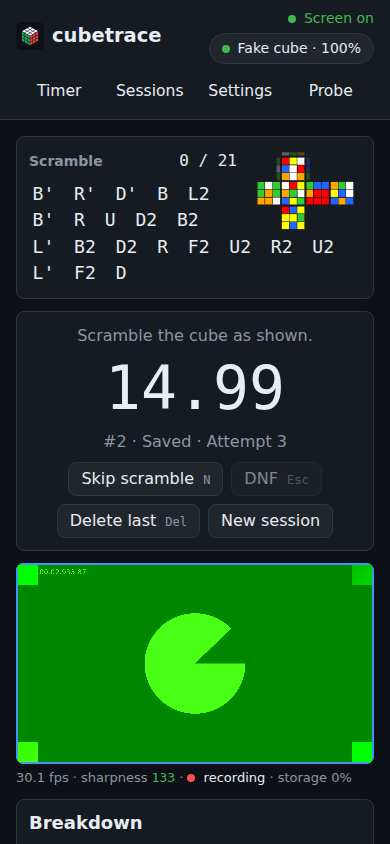
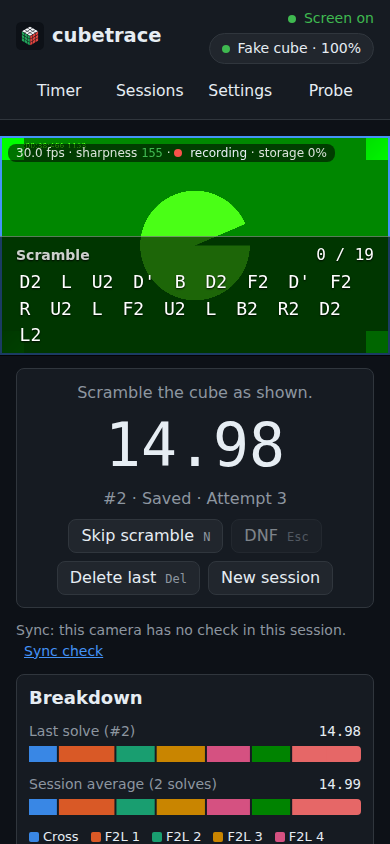
docs: T2.13 on the board, its section in the plan, its manual item, the changelog under 0.2.0, the README's phone layout and screenshot, the phone layout in TOOLCHAIN
PLAN.md: the board row (after T2.11; T2.12 is not on main yet) and a T2.13 section modeled on
T2.7's, with the owner's check that the hands stay in view while reading the scramble.
MANUAL-TESTS.md: the T2.13 item of Round 2, after T2.7's layout, whose phone item now says Scramble
over the picture off. CHANGELOG.md: under 0.2.0, the phone's pinned picture and scramble, and the
T2.7 line's "under it on a phone". README: the Recording section and the phone screenshot (demo
solve 1 at real-time speed after two solves, as the laptop's, with the camera recording), whose
caption says what it now shows. TOOLCHAIN.md: how the layout is chosen and pinned, the picture's
sizes measured, the strip's contrast, the sizes of the chunks and the e2e.

Claude-Session: https://claude.ai/code/session_01BvXBPaFB4UMN9hyUmGugdw

diff --git a/docs/MANUAL-TESTS.md b/docs/MANUAL-TESTS.md
@@ -42,12 +42,12 @@ to create the `v0.2.0` release from GitHub after it.
    it is connected); the camera is the one chosen in Camera settings; the app's version and commit
    are in the page footer.
 2. Go through the sections below in this order: **T2.1** (camera panel), **T2.4** (recording),
-   **T2.10** (video quality), **T2.5** (sync check), **T2.7** (layout), **T2.9** (a long scramble, a
-   reconnection, the sound), then **T2.3** (clips, in the capture lab). Since T2.7, the "Camera
-   section" of the T2.1 and T2.4 items is Camera settings, a disclosure below the Cube section, and
-   the framing rectangle is moved after Framing → Edit. Tick an item when it passes on every row.
-   When it fails or does something unexpected on a row, write the row (such as "ThinkPhone, rear")
-   and what happened next to it.
+   **T2.10** (video quality), **T2.5** (sync check), **T2.7** (layout), **T2.13** (the phone's
+   scramble over the picture), **T2.9** (a long scramble, a reconnection, the sound), then **T2.3**
+   (clips, in the capture lab). Since T2.7, the "Camera section" of the T2.1 and T2.4 items is
+   Camera settings, a disclosure below the Cube section, and the framing rectangle is moved after
+   Framing → Edit. Tick an item when it passes on every row. When it fails or does something
+   unexpected on a row, write the row (such as "ThinkPhone, rear") and what happened next to it.
 3. Every failure becomes a GitHub issue with the row's device, Chrome version, camera and cube, the
    steps, what happened and what was expected (a screenshot, or the console line, when it shows it).
    The known limitations below are expected: report one only if it behaves otherwise than said.
@@ -383,23 +383,24 @@ and what the app said. Export the session at the end (Sessions → Export) and a
 
 ## T2.7 — layout
 
-On https://shermam.github.io/cubetrace/, Timer page, with a cube connected and the camera on, on
-the MacBook (Chrome at the size its window opens with, not full screen) and on the ThinkPhone
-(Chrome, then the installed app). Since T2.7 the Camera section of the T2.1 and T2.4 items above is
-**Camera settings**, a disclosure below the Cube section: the camera's picture is beside the time
-(under it on the phone), and the framing rectangle is dragged after Framing → Edit. Next to each
-item, write the device, Chrome's version and the window's size (`innerWidth` × `innerHeight` in the
-console, or `chrome://inspect` on the phone).
+On https://shermam.github.io/cubetrace/, Timer page, with a cube connected and the camera on, on the
+MacBook (Chrome at the size its window opens with, not full screen) and on the ThinkPhone (Chrome,
+then the installed app). Since T2.7 the Camera section of the T2.1 and T2.4 items above is **Camera
+settings**, a disclosure below the Cube section: the camera's picture is beside the time (on the
+phone, at the top with the scramble over it since T2.13, or under the time with Scramble over the
+picture off), and the framing rectangle is dragged after Framing → Edit. Next to each item, write
+the device, Chrome's version and the window's size (`innerWidth` × `innerHeight` in the console, or
+`chrome://inspect` on the phone).
 
 - [ ] MacBook: the scramble (moves and picture), the time and the camera's preview are all in view
   together without scrolling, the preview beside the time, about 240 px high, and under it one line:
   the frame rate (about 30 fps), the sharpness (green when good, amber when soft), "recording" with
   a red dot during a session ("saving" for a moment after each scramble and solve), and storage in
   percent.
-- [ ] ThinkPhone in portrait, in Chrome and in the installed app: scramble, time and preview (under
-  the time, the width of the screen) in view together without scrolling, and nothing scrolls
-  sideways. If the bottom of the preview is cut off in Chrome (with its address bar), write down by
-  how much.
+- [ ] ThinkPhone in portrait, in Chrome and in the installed app, with Settings → Timer → Scramble
+  over the picture off (T2.13 has it on by default): scramble, time and preview (under the time, the
+  width of the screen) in view together without scrolling, and nothing scrolls sideways. If the
+  bottom of the preview is cut off in Chrome (with its address bar), write down by how much.
 - [ ] The preview stays in view through a whole attempt, the page not moving: scrambling, armed,
   solving, and after the solve. It shows the framing rectangle; a front camera's preview is mirrored
   like a mirror.
@@ -416,6 +417,26 @@ console, or `chrome://inspect` on the phone).
   by hand, they stay closed across a reload, and opened, open. The camera picker, Turn on and off,
   the resolution, the frame rate, Record audio, the exposure, focus, white balance, zoom and torch
   (the ThinkPhone), and the framing (Edit, Full frame) are all in them.
+
+## T2.13 — the scramble over the picture (phone)
+
+On https://shermam.github.io/cubetrace/, Timer page, on the ThinkPhone in portrait (Chrome, then the
+installed app), the phone on its stand as the owner solves, with the GAN 12 ui FreePlay connected
+and the front camera on, and Settings → Timer → Scramble over the picture (phone) on, as it is by
+default. Next to the item, write Chrome's version, the window's size (`innerWidth` × `innerHeight`
+through `chrome://inspect`) and anything hard to read.
+
+- [ ] The camera's picture is at the top of the page, as wide as the screen (the upright frames
+  between black bars), with the framing rectangle, its line (frame rate, sharpness, recording,
+  storage) over its top left corner, and the scramble over its lower part on a dark strip; the time
+  is right under it. Scramble and solve a few times while reading the scramble from the strip: the
+  hands stay in view while reading the scramble, and the moves are easy to read over the picture
+  (green once made, yellow half made, red where the cube left the scramble, and the undo moves when
+  it does). Scroll down to the solves: the picture and the scramble stay at the top, the rest goes
+  under them. Turn Scramble over the picture off: the preview is back under the time (the T2.7 item
+  above); on again, the picture at the top. With the camera off, the scramble's card stays at the
+  top as the page scrolls. If the strip hides the cube or the hands, write down where they were in
+  the picture.
 
 ## T2.5 — sync check
 

diff --git a/docs/TOOLCHAIN.md b/docs/TOOLCHAIN.md
@@ -890,6 +890,68 @@ kB), the preview, 6.1 kB (2.4 kB), and `CameraService` with `RecordingService`, 
 kB (6.9 kB), against one chunk of 42.2 kB (13.2 kB). The session's page, new, is 9.1 kB (3.3 kB); the
 Sessions page 8.3 kB (2.8 kB), against 8.1 (2.8).
 
+## Phone layout (T2.13)
+
+Added by T2.13 on 2026-10-01.
+
+**The choice.** `timerLayout()` (`apps/web/src/app/timer/timer-layout.ts`) gives the Timer page's
+layout from three things: whether the window is 60rem wide or more (`matchMedia('(min-width:
+60rem)')`, `$two-columns` of `styles/_layout.scss`, read through `BROWSER_GLOBALS` and followed on
+`change`), the camera setting (`cameraOn`, which `CameraService` follows as soon as its code has
+loaded, so that the layout waits for no camera code) and Scramble over the picture: `columns` (a
+wide window), `stacked` (T2.7's column), `pinned` (the scramble's card pinned) or `overlay` (the
+picture and the scramble over it, pinned). The page's elements follow it, since one
+`<app-camera-preview>` cannot be both beside the time and in the pinned part: in `overlay` the
+preview is rendered in the pinned part (`.stage`, after the scramble's section) with its `overlay`
+input, and the Timer page renders the sync check under the time; otherwise both are where T2.7 has
+them. A change of layout makes a new preview (a new `<video>` on the same stream: the camera, the
+recording and the sync check live in root services), never a new scramble view, whose `overPicture`
+input changes.
+
+**Pinning.** `position: sticky; top: 0` on `.stage`, a grid item of the page's one-column grid:
+Chromium keeps a sticky grid item within its grid container, not within its grid area (checked on
+Chromium 141 with a sticky first row, which stays at the top while the grid scrolls by). The stage
+has the page's background and bleeds over the gutters (`margin-inline: -1rem`), so that nothing
+shows through beside it; with the camera off, bands of background above the card (16 px, against a
+margin as negative, so that the card does not move until it is pinned) and under it (8 px).
+`z-index: 2` puts it over the rest of the page; the two dialogs are modal, in the top layer. The
+header scrolls away as before.
+
+**The picture.** In the pinned part the preview's box takes the frames' proportions (`aspect-ratio:
+var(--aspect)`, 16:9 until a frame is measured) up to `max-height: 42svh` (the small viewport:
+Chrome's address bar shown), and the frames fit inside it as T2.7 has them, so upright frames come
+between bars. Measured on the production build with Chrome's test camera, the banner about Web
+Bluetooth dismissed: at 390×844 the picture is 390×219, the strip 119 px high (the heading and three
+lines of moves) and the time's section runs from 368 to 608; scrolled to the solves, the picture is
+at 0 and the time's section at −86; at 320×640 the picture is 180 px high; at 412×818 (the
+ThinkPhone in Chrome with its address bar) with upright 1080×1920 frames (the test camera turned a
+quarter turn in a canvas) the picture is 412×344 with the frames 193 px wide between bars, the strip
+122 px, and the time's section runs from 493 to 737. The page's boxes at 1280×800 (camera on and
+off) and at 390×844 with the setting off, or with the camera off before scrolling, are those of
+`main` to the pixel.
+
+**The strip.** Black at 60% (the task asked about 55%): over a mid-grey picture the moves (white)
+have a contrast of 12.6:1, the heading (white at 80%) 8.7:1 and a move made (`--ok`, #3fb950) 5.0:1;
+over a white picture the moves still have 5.7:1. At 55% a move made had 4.5:1 over the grey and the
+moves 4.8:1 over white. A move where the cube left the scramble (`--danger`) has 3.8:1 over the
+grey, with its red outline; the text has a dark shadow. The undo guidance is tinted (`--warn` at
+30%) rather than the opaque box it has elsewhere, so that the picture shows through it; while it
+shows, at 390 px with 16:9 frames, the strip is as tall as the picture and covers the status line.
+
+**Sizes** (`ng build`, 2026-10-01, against `main` at b0c908a): the initial bundle is 264.47 kB raw
+against 264.46 (the chunks' names in `main`). The Timer page's chunk is 31.2 kB raw against 28.3
+(the layout, the second places of the preview and of the sync check, the styles); the sync check's
+panel and `SyncService` left the preview's chunk for one that it shares with the Timer page, 14.5 kB
+raw (the preview's is 6.9 kB, against 20.3 with them); the Settings page's chunk is 17.0 kB (16.4)
+and `SettingsService`'s 46.8 kB (46.6).
+
+**E2E.** `timer-layout.spec.ts` checks the phone's layout with bounding boxes at 390×844 after a
+load with the camera on, then scrolled until the breakdown and the solves come under the pinned
+part, and at 320×640; the strip's legibility from its computed colours composited over a mid-grey
+picture (WCAG 2's contrast); the camera off (with the Cube section open, so that a session of one
+solve is long enough to scroll the time away); and T2.7's phone test with the setting off. The suite
+has 62 tests and took 3.3 min locally (3 min 20 s with the servers) on 2026-10-01.
+
 ## The sync check (T2.5, T2.8, T2.11)
 
 Added by T2.5 on 2026-09-27: the motion of the frames in the capture worker

diff --git a/docs/PLAN.md b/docs/PLAN.md
@@ -689,6 +689,7 @@ pipeline, §9 the data model).
 | T2.9 | `capture`+`core`+`web`: clips clipped, never refused, for a start older than the buffer; the scramble clip's 60 s window; the clock fit restarts with the cube; audio never silently absent | T2.5 | ✅ #37 |
 | T2.10 | `capture`+`web`: video quality setting, 4 Mbps by default | T2.4 | ✅ #36 |
 | T2.11 | `capture`+`web`: the sync check measures the middle of each turn's motion, with a trimmed spread | T2.8 | ✅ #39 |
+| T2.13 | `web`: on a phone, the picture and the scramble in view together: the scramble over the pinned picture | T2.7 | ⬜ |
 
 Waves: {T2.0, T2.1, T2.2} → T2.3 → T2.4 → {T2.5, T2.7} → T2.6 → {T2.8, T2.9, T2.10} (from the owner's
 first recordings, issues #33 and #34; all merged on 2026-09-27). Rules for every phase 2 task: nothing of
@@ -1134,6 +1135,56 @@ texts.
 - [ ] CI green; the two checks of issue #38 pass in `clapperboard-hardware.test.ts`, and T2.8's
   estimator fails them there as it did on the day.
 - [ ] Owner, on the MacBook: two checks on the FaceTime camera pass and agree within 25 ms.
+
+### T2.13 — `web`: on a phone, the picture and the scramble in view together: the scramble over the pinned picture
+
+**Goal.** What the owner found solving on the ThinkPhone in portrait: the scramble and the camera's
+picture cannot be seen at the same time. T2.7's column puts the picture under the time, so with the
+page scrolled to the scramble the picture is out of view, and the hands drift out of the frame
+unnoticed. His suggestion: the picture behind the scramble, the scramble on a transparent ground.
+
+**Scope.** `apps/web/src/app/timer/*` (the page's layout, `timer-layout.ts` for its choice, the
+scramble over the picture), `apps/web/src/app/camera/camera-preview.ts` (its form over a phone's
+page), `apps/web/src/app/settings/*` (one setting), `matchMedia` in `BROWSER_GLOBALS`, e2e
+`timer-layout.spec.ts`, README, `docs/{MANUAL-TESTS,CHANGELOG,TOOLCHAIN}.md`.
+
+**Behaviour.**
+- **A phone with the camera on** (a window narrower than 60rem, T2.7's breakpoint): one part pinned at
+  the top of the window (`position: sticky; top: 0`, over the rest, on the page's background so that
+  nothing shows through beside it): the camera's picture from edge to edge at the frames' proportions,
+  at most 42% of the window's height (16:9 at 390 px wide is 219 px high; a phone's upright frames
+  come between bars), with the framing rectangle, the preview's line over its top left corner on a
+  dark ground of its own, and the scramble over its lower part on a dark strip (black at 60%, a thin
+  light top edge; the moves white, as large as elsewhere and in the same colours, with a shadow; the
+  heading, "Scramble" or "Next scramble", the progress, "0 / 21", and the undo guidance there as
+  before, the guidance tinted rather than opaque; no picture of the cube), as tall as its lines. The
+  time right under the pinned part, the sync check under the time (out of the pinned part), then the
+  breakdown, the last solves and the two sections. While the picture's code loads, a black box of
+  16:9 holds its place.
+- **A phone with the camera off:** T2.7's column, with the scramble's card pinned the same way and a
+  band of the page's background above and under it.
+- **Setting** `scrambleOverPicture`, "Scramble over the picture (phone)" in Settings → Timer, on by
+  default; settings stored without it read on. Off: T2.7's column, nothing pinned.
+- **Wide windows** (from 60rem): unchanged. The header scrolls away as before.
+
+**Tests.** Unit: the layout's choice (`timerLayout`) in every case, and the media query's signal
+(it follows `change`, stops with its component, and is false without `matchMedia`); the setting's
+default, persistence and the settings stored before it; its switch in Settings → Timer; the scramble
+over the picture (no picture of the cube; the progress and the undo guidance); the preview's form over
+the page (the frames' proportions, no sync check); the Timer page's elements in each layout, as the
+camera, the setting and the window change. Playwright at 390×844 with Chrome's fake camera and the
+demo cube: every move of the scramble, the picture and the time in the window after a load; scrolled
+until the breakdown and the solves come under the pinned part, the picture and every move still at
+the top, and the time gone under them; the strip's ground at least 50% black, its moves white, and at
+least 4.5:1 over a mid-grey picture for the moves, the heading and the green of a move made; nothing
+wider than the screen at 320 px; the camera off, the scramble's card pinned; with the setting off,
+T2.7's assertions (the preview under the time); at 1280×800, T2.7's assertions and nothing pinned.
+Screenshots in the PR.
+
+**Acceptance.**
+- [ ] CI green; the initial bundle within 2 kB of `main`'s.
+- [ ] Settings stored before this change read on.
+- [ ] Owner, on the ThinkPhone: the hands stay in view while reading the scramble.
 
 ## Phase 3 task board — cloud
 

diff --git a/README.md b/README.md
@@ -69,13 +69,18 @@ sessions of every device end up in one dataset.
 camera ("Front camera" or "Rear camera" on a phone) and click Turn on. Chrome asks for the camera
 once, and for the microphone when recording starts (Record audio, in Camera settings and in Settings
 → Camera, leaves the sound out). The camera stays on across reloads until Turn off. Its picture then
-stays beside the time (under it on a phone), mirrored for a front camera, so that the cube can be
-kept in frame while scrambling and solving, with one line under it: the frame rate measured, the
-sharpness (green when good, amber when soft), what the recording does (idle, recording, saving) and
-how full storage is. Camera settings also show what the camera claims next to what it delivers (a
-phone may claim 60 fps and deliver 30), and the manual controls it has: exposure and ISO, focus,
-white balance, zoom and torch, with Reset to auto. Settings → Camera has the resolution (1920×1080
-or 1280×720), the frame rate asked for, the video quality (below) and the sharpness meter's threshold.
+stays beside the time, mirrored for a front camera, so that the cube can be kept in frame while
+scrambling and solving, with one line under it: the frame rate measured, the sharpness (green when
+good, amber when soft), what the recording does (idle, recording, saving) and how full storage is.
+On a phone the picture is at the top of the page instead, as wide as the screen, with that line over
+its top left corner and the scramble over its lower part, on a dark strip through which the picture
+shows; both stay at the top of the window while the page scrolls, and with the camera off the
+scramble stays there alone. Settings → Timer → "Scramble over the picture (phone)", turned off, puts
+the picture under the time and pins nothing. Camera settings also show what the camera claims next
+to what it delivers (a phone may claim 60 fps and deliver 30), and the manual controls it has:
+exposure and ISO, focus, white balance, zoom and torch, with Reset to auto. Settings → Camera has
+the resolution (1920×1080 or 1280×720), the frame rate asked for, the video quality (below) and the
+sharpness meter's threshold.
 
 **The framing rectangle** is the part of the picture the model will learn from, drawn on the
 camera's picture. Framing → Edit, in Camera settings, shows a larger picture on which it is dragged
@@ -164,11 +169,11 @@ CFOP breakdown and the solve list.
 
 ![The Timer page on a laptop: a scramble with its picture at the top left, under it the time 14.99 with "#2 · Saved · Attempt 3" and, beside it, the camera's picture (Chrome's green test pattern) with its frame rate, sharpness, recording and storage under it; on the right the CFOP breakdown of the last solve and of the session average, and the solve list with its statistics and "2 solves in this session · See all"](docs/screenshots/timer-laptop.png)
 
-The same on a phone in portrait, 390 px wide, and the connect dialog in Chrome without the MAC
-address flag, once the cube is chosen:
+The same on a phone in portrait, 390 px wide, the camera's picture at the top with the scramble over
+it, and the connect dialog in Chrome without the MAC address flag, once the cube is chosen:
 
 <p>
-  <img src="docs/screenshots/timer-phone.png" width="260" alt="The Timer page on a phone: the scramble with its picture, the time, and the camera's picture under it, in one screen">
+  <img src="docs/screenshots/timer-phone.png" width="260" alt="The Timer page on a phone: at the top, the camera's picture (Chrome's green test pattern) as wide as the screen, with its frame rate, sharpness, recording and storage over its top left corner and the next scramble over its lower part on a dark strip; under it the time 14.98 with “#2 · Saved · Attempt 3”, the line of the sync check and the start of the breakdown, in one screen">
   <img src="docs/screenshots/connect-dialog.png" width="400" alt="The connect dialog asking for the cube's MAC address, with an address typed, Connect and Cancel, and under it, unfolded, the flag that lets Chrome read the address: its address with a Copy button and the three steps to enable it">
 </p>
 

diff --git a/docs/CHANGELOG.md b/docs/CHANGELOG.md
@@ -20,9 +20,9 @@ Deployed at https://shermam.github.io/cubetrace/.
   balance, zoom, torch) with Reset to auto, the framing rectangle (Framing → Edit, kept per camera) and
   a sharpness meter (good or soft); in Settings, the resolution, the frame rate, the sharpness
   threshold and Record audio.
-- The camera's picture beside the time (under it on a phone), mirrored for a front camera, with the
-  framing rectangle drawn on it and one line under it: the frame rate, the sharpness, what the
-  recording does and how full storage is (T2.7).
+- The camera's picture beside the time (on a phone, at the top of the page with the scramble over it,
+  T2.13), mirrored for a front camera, with the framing rectangle drawn on it and one line with it:
+  the frame rate, the sharpness, what the recording does and how full storage is (T2.7).
 - Recording (T2.2, T2.3, T2.4, T2.9): with the camera on and a session under way, the camera and the
   microphone are encoded into the last 90 s kept in memory (H.264 and AAC where Chrome has encoders
   for them, VP9 and Opus otherwise), and every attempt gets two MP4 clips cut from it without
@@ -72,6 +72,14 @@ Deployed at https://shermam.github.io/cubetrace/.
 - The Timer page (T2.7): the last 12 solves, with "N solves in this session · See all"; the scramble's
   picture beside its moves, and the result on the line of the attempt's number; wider on a laptop and
   tighter on a phone, so that the scramble, the time and the camera's picture are in view together.
+- On a phone, the Timer page keeps the camera's picture and the scramble in view together while it
+  scrolls (T2.13): with the camera on, the picture is pinned at the top of the window, as wide as the
+  screen, with the scramble over its lower part on a dark strip through which the picture shows (its
+  moves as large and in the same colours as before; its progress and undo moves there too), the time
+  right under it and the sync check under the time; with the camera off, the scramble's card is pinned
+  at the top. On the ThinkPhone the scramble was out of view whenever the picture was in view, and
+  the hands drifted out of the frame unnoticed. Settings → Timer → "Scramble over the picture (phone)",
+  on by default, turned off brings back the column of T2.7, with the picture under the time.
 - The records are schema version 2 (T2.0, `docs/DATA-MODEL.md`): `attempt.json` gains `clock` and
   lists its clips in `video`, `session.json` lists its `cameras` and their `clock.cameras`, and every
   clip has a `frames.json`; sessions recorded by 0.1.0 are still read, resumed and exported, as
